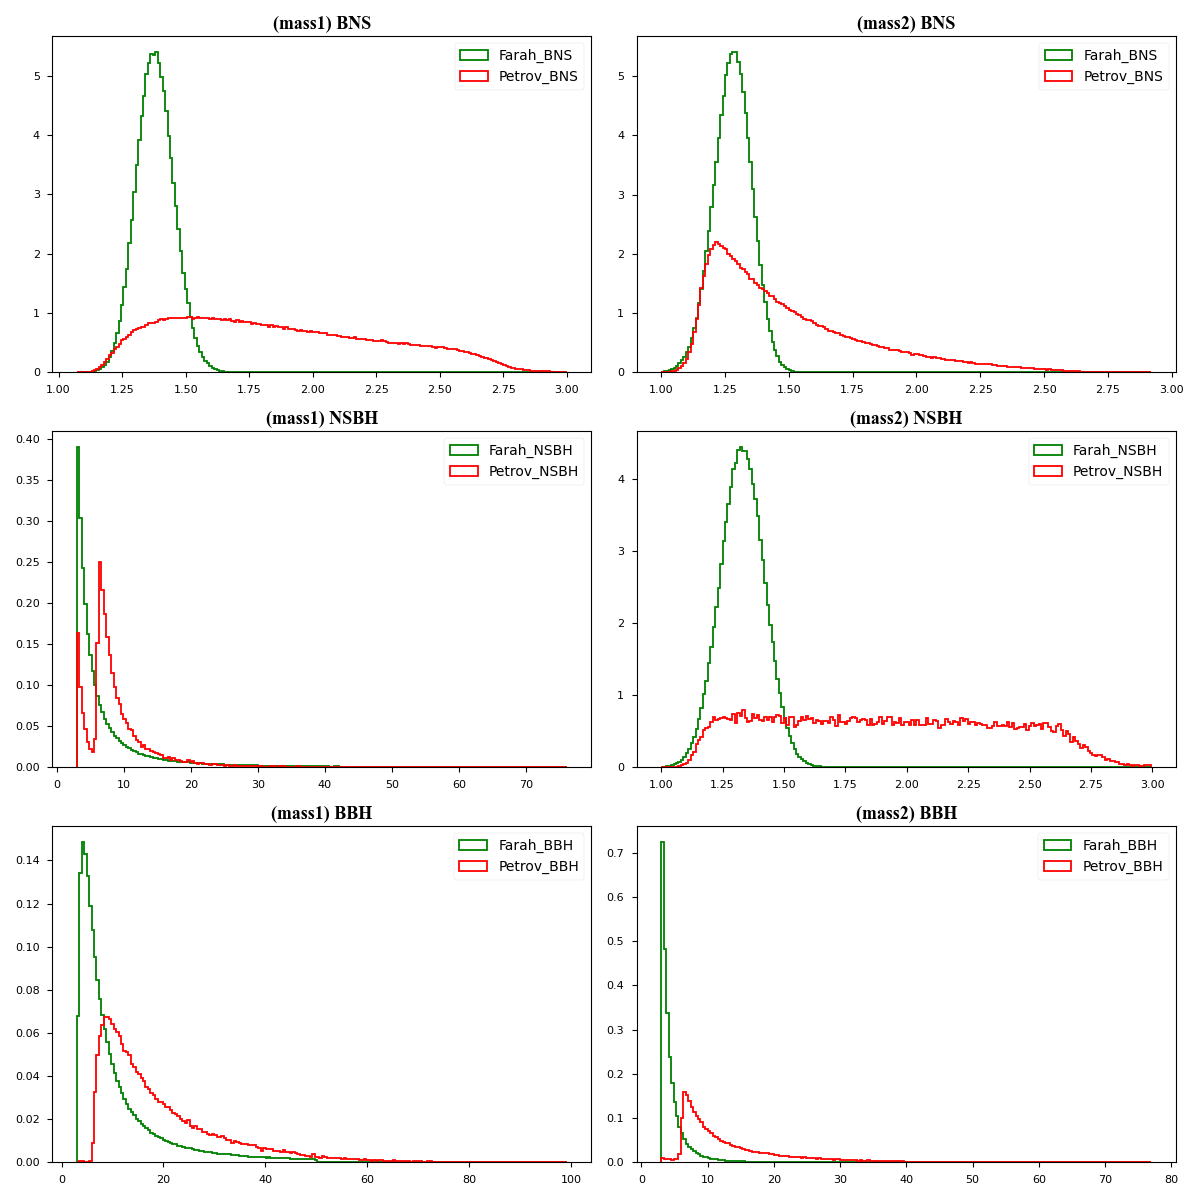
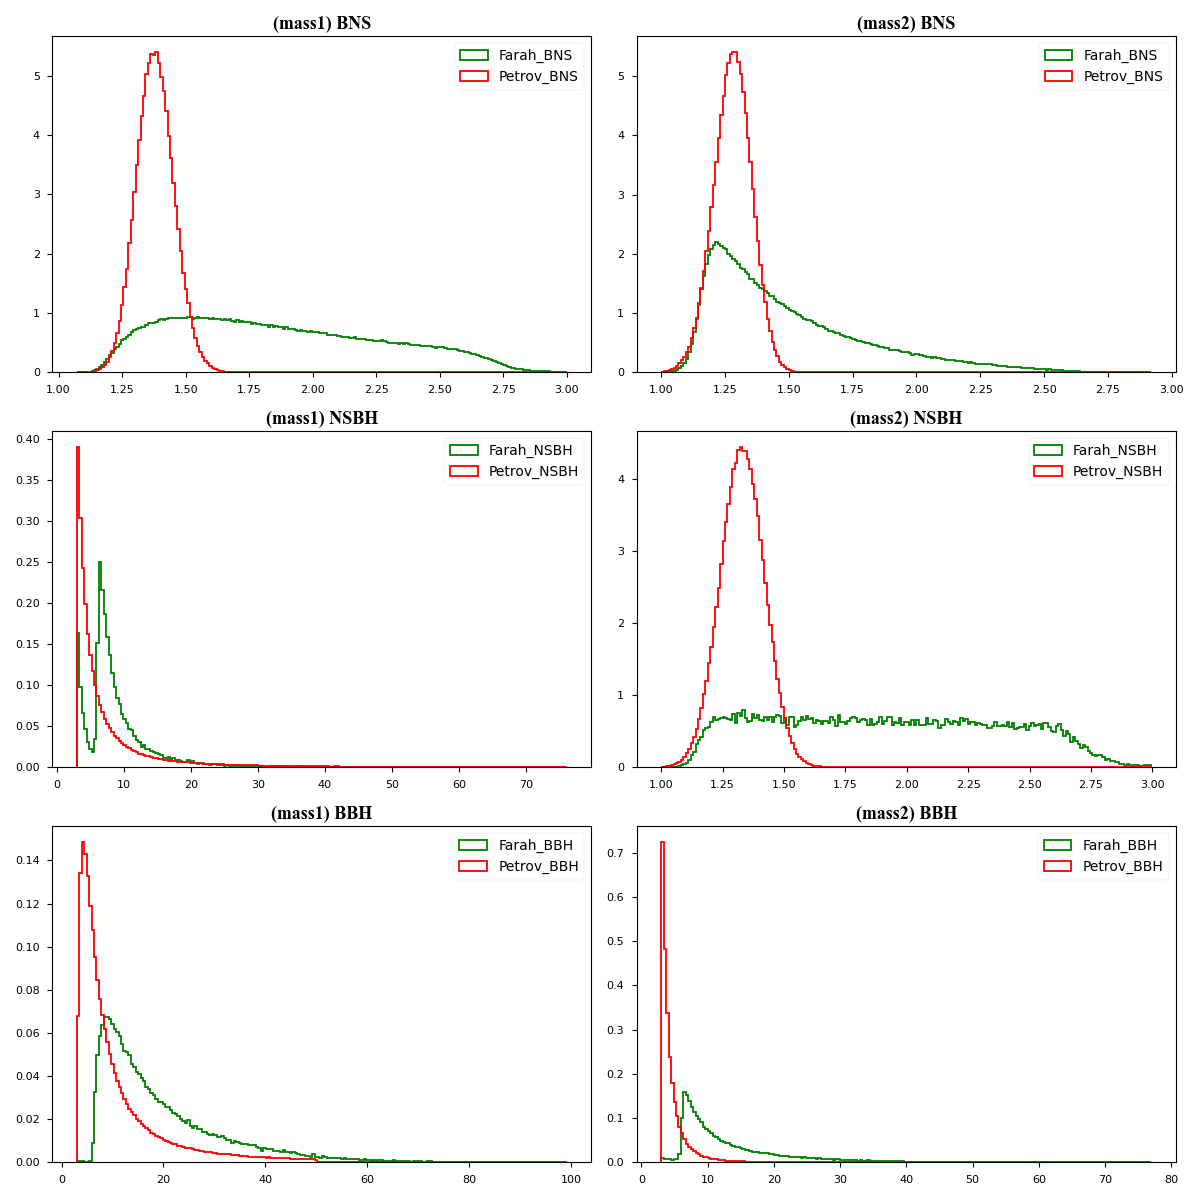
Petrov and farh original data fixed bug

diff --git a/farah_initial.py b/farah_initial.py
@@ -31,10 +31,10 @@ F_source_mass2 = Farah['mass2']
 P_source_mass1 = Petrov['mass1']
 P_source_mass2 = Petrov['mass2']
 
-BNS   = [Farah[(F_source_mass1 < ns_max_mass) & (F_source_mass2 < ns_max_mass)], Petrov[(P_source_mass1 < ns_max_mass) & (P_source_mass2 < ns_max_mass)]]
+BNS   = [Petrov[(P_source_mass1 < ns_max_mass) & (P_source_mass2 < ns_max_mass)], Farah[(F_source_mass1 < ns_max_mass) & (F_source_mass2 < ns_max_mass)]]
 
-NSBH  =  [Farah[(F_source_mass1 >= ns_max_mass) & (F_source_mass2 < ns_max_mass)], Petrov[(P_source_mass1 >= ns_max_mass) & (P_source_mass2 < ns_max_mass)]]
-BBH   =  [Farah[(F_source_mass1 >= ns_max_mass) & (F_source_mass2 >= ns_max_mass)], Petrov[(P_source_mass1 >= ns_max_mass) & (P_source_mass2 >= ns_max_mass)]] 
+NSBH  =  [Petrov[(P_source_mass1 >= ns_max_mass) & (P_source_mass2 < ns_max_mass)], Farah[(F_source_mass1 >= ns_max_mass) & (F_source_mass2 < ns_max_mass)]]
+BBH   = [Petrov[(P_source_mass1 >= ns_max_mass) & (P_source_mass2 >= ns_max_mass)], Farah[(F_source_mass1 >= ns_max_mass) & (F_source_mass2 >= ns_max_mass)]] 
 
 tables = {"BNS": BNS, 
          "NSBH": NSBH, 
